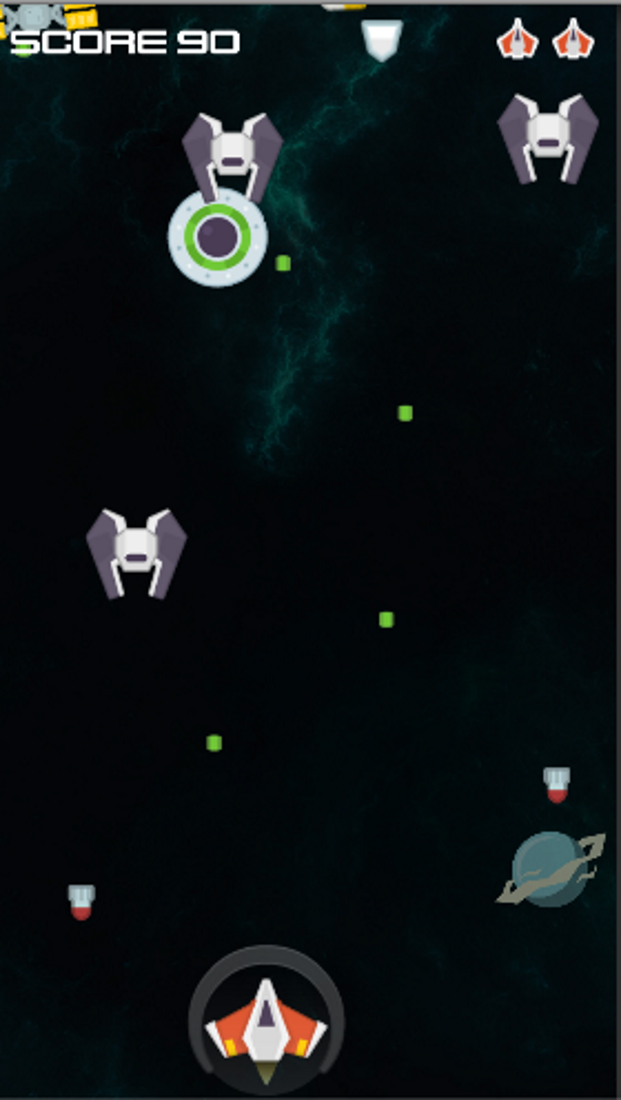
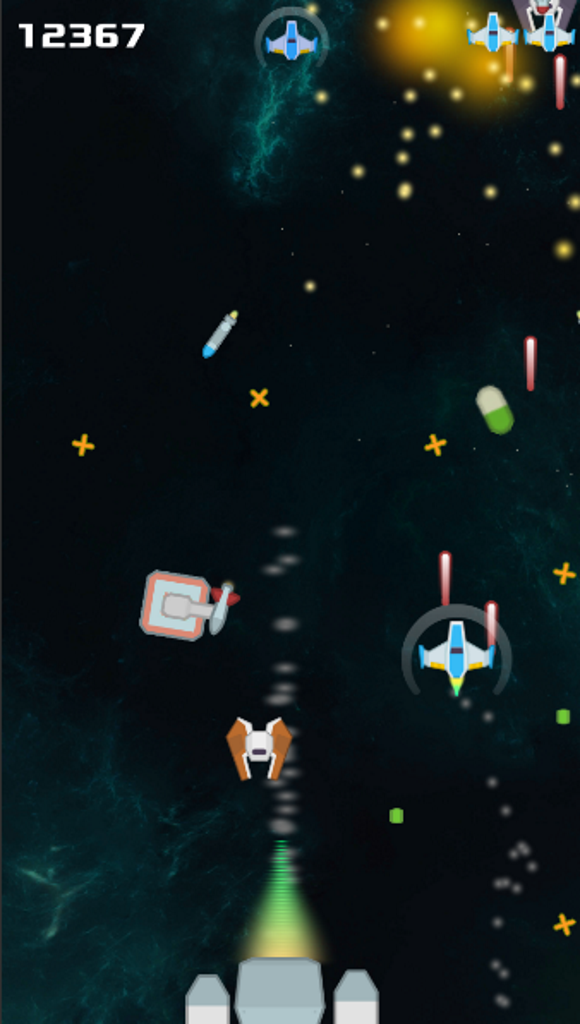
Update site

diff --git a/docs/_includes/portfolio.html b/docs/_includes/portfolio.html
@@ -3,7 +3,7 @@
         <div class="row no-gutter">
             <div class="col-lg-2 col-sm-4">
                 <a href="#" class="portfolio-box">
-                    <img src="/img/portfolio/1.png" class="img-responsive" alt="">
+                    <img src="/img/portfolio/screen-01.png" class="img-responsive" alt="">
                     <div class="portfolio-box-caption">
                         <div class="portfolio-box-caption-content">
                             <div class="project-category text-faded">
@@ -15,7 +15,7 @@
             </div>
             <div class="col-lg-2 col-sm-4">
                 <a href="#" class="portfolio-box">
-                    <img src="/img/portfolio/2.png" class="img-responsive" alt="">
+                    <img src="/img/portfolio/screen-02.png" class="img-responsive" alt="">
                     <div class="portfolio-box-caption">
                         <div class="portfolio-box-caption-content">
                             <div class="project-category text-faded">
@@ -27,7 +27,7 @@
             </div>
             <div class="col-lg-2 col-sm-4">
                 <a href="#" class="portfolio-box">
-                    <img src="/img/portfolio/3.png" class="img-responsive" alt="">
+                    <img src="/img/portfolio/screen-03.png" class="img-responsive" alt="">
                     <div class="portfolio-box-caption">
                         <div class="portfolio-box-caption-content">
                             <div class="project-category text-faded">
@@ -39,7 +39,7 @@
             </div>
             <div class="col-lg-2 col-sm-4">
                 <a href="#" class="portfolio-box">
-                    <img src="/img/portfolio/4.png" class="img-responsive" alt="">
+                    <img src="/img/portfolio/screen-04.png" class="img-responsive" alt="">
                     <div class="portfolio-box-caption">
                         <div class="portfolio-box-caption-content">
                             <div class="project-category text-faded">
@@ -51,7 +51,7 @@
             </div>
             <div class="col-lg-2 col-sm-4">
                 <a href="#" class="portfolio-box">
-                    <img src="/img/portfolio/5.png" class="img-responsive" alt="">
+                    <img src="/img/portfolio/screen-05.png" class="img-responsive" alt="">
                     <div class="portfolio-box-caption">
                         <div class="portfolio-box-caption-content">
                             <div class="project-category text-faded">
@@ -63,7 +63,7 @@
             </div>
             <div class="col-lg-2 col-sm-4">
                 <a href="#" class="portfolio-box">
-                    <img src="/img/portfolio/6.png" class="img-responsive" alt="">
+                    <img src="/img/portfolio/screen-06.png" class="img-responsive" alt="">
                     <div class="portfolio-box-caption">
                         <div class="portfolio-box-caption-content">
                             <div class="project-category text-faded">

diff --git a/docs/_includes/contact.html b/docs/_includes/contact.html
@@ -27,13 +27,7 @@
         <p>&copy; 2016 theme by <a rel="nofollow" target="blank" href="https://startbootstrap.com/template-overviews/new-age/">Start Bootstrap</a> Built with <a target="_blank" rel="nofollow" href="https://jekyllrb.com/">Jekyll</a> by <a target="_blank" rel="nofollow" href="https://it.linkedin.com/in/antoniotrento">Antonio Trento</a> hosted on <a target="_blank" rel="nofollow" href="https://github.com/jekynewage/jekynewage.github.io">Github</a>. All Rights Reserved.</p>
         <ul class="list-inline">
             <li>
-                <a href="#">Privacy</a>
-            </li>
-            <li>
-                <a href="#">Terms</a>
-            </li>
-            <li>
-                <a href="#">FAQ</a>
+                <a href="http://www.v1kings.io">Vikings Entertainment</a>
             </li>
         </ul>
     </div>

diff --git a/docs/_includes/call-to-action.html b/docs/_includes/call-to-action.html
@@ -2,10 +2,10 @@
     <div class="container">
         <div class="row">
             <div class="col-md-8 col-md-offset-2">
-                <h2 class="section-heading">Discover what all the buzz is about!</h2>
+                <h2 class="section-heading">Join the fight !</h2>
                 <p>Our app is available on any mobile device! Download now to get started!</p>
                 <div class="badges">
-                    <a class="badge-link" href="#"><img src="/img/google-play-badge.svg" alt=""></a>
+                    <a class="badge-link" href="https://play.google.com/store/apps/details?id=io.v1kings.letsshootemup"><img src="/img/google-play-badge.svg" alt=""></a>
                     <!-- <a class="badge-link" href="#"><img src="/img/app-store-badge.svg" alt=""></a> -->
                 </div>
             </div>

diff --git a/docs/_includes/header.html b/docs/_includes/header.html
@@ -4,7 +4,7 @@
             <div class="col-sm-7">
                 <div class="header-content">
                     <div class="header-content-inner">
-                        <h1>Let's Shoot’Em Up" is a roguelike-shmup video game for Android and WebBrowser made by Vikings Entertainement. Let's Shoot’Em Up" is a frenetic space shooter. </h1>
+                        <h1>"Let's Shoot’Em Up" is a frenetic space shooter made by Vikings Entertainement.</h1>
                         <a href="#download" class="btn btn-outline btn-xl page-scroll">Play Now for Free!</a>
                     </div>
                 </div>

diff --git a/docs/_includes/nav.html b/docs/_includes/nav.html
@@ -15,7 +15,7 @@
                     <a class="page-scroll" href="#download">Download</a>
                 </li>
                 <li>
-                    <a class="page-scroll" href="#portfolio">Portfolio</a>
+                    <a class="page-scroll" href="#portfolio">Screens</a>
                 </li>
                 <li>
                     <a class="page-scroll" href="#contact">Contact</a>
